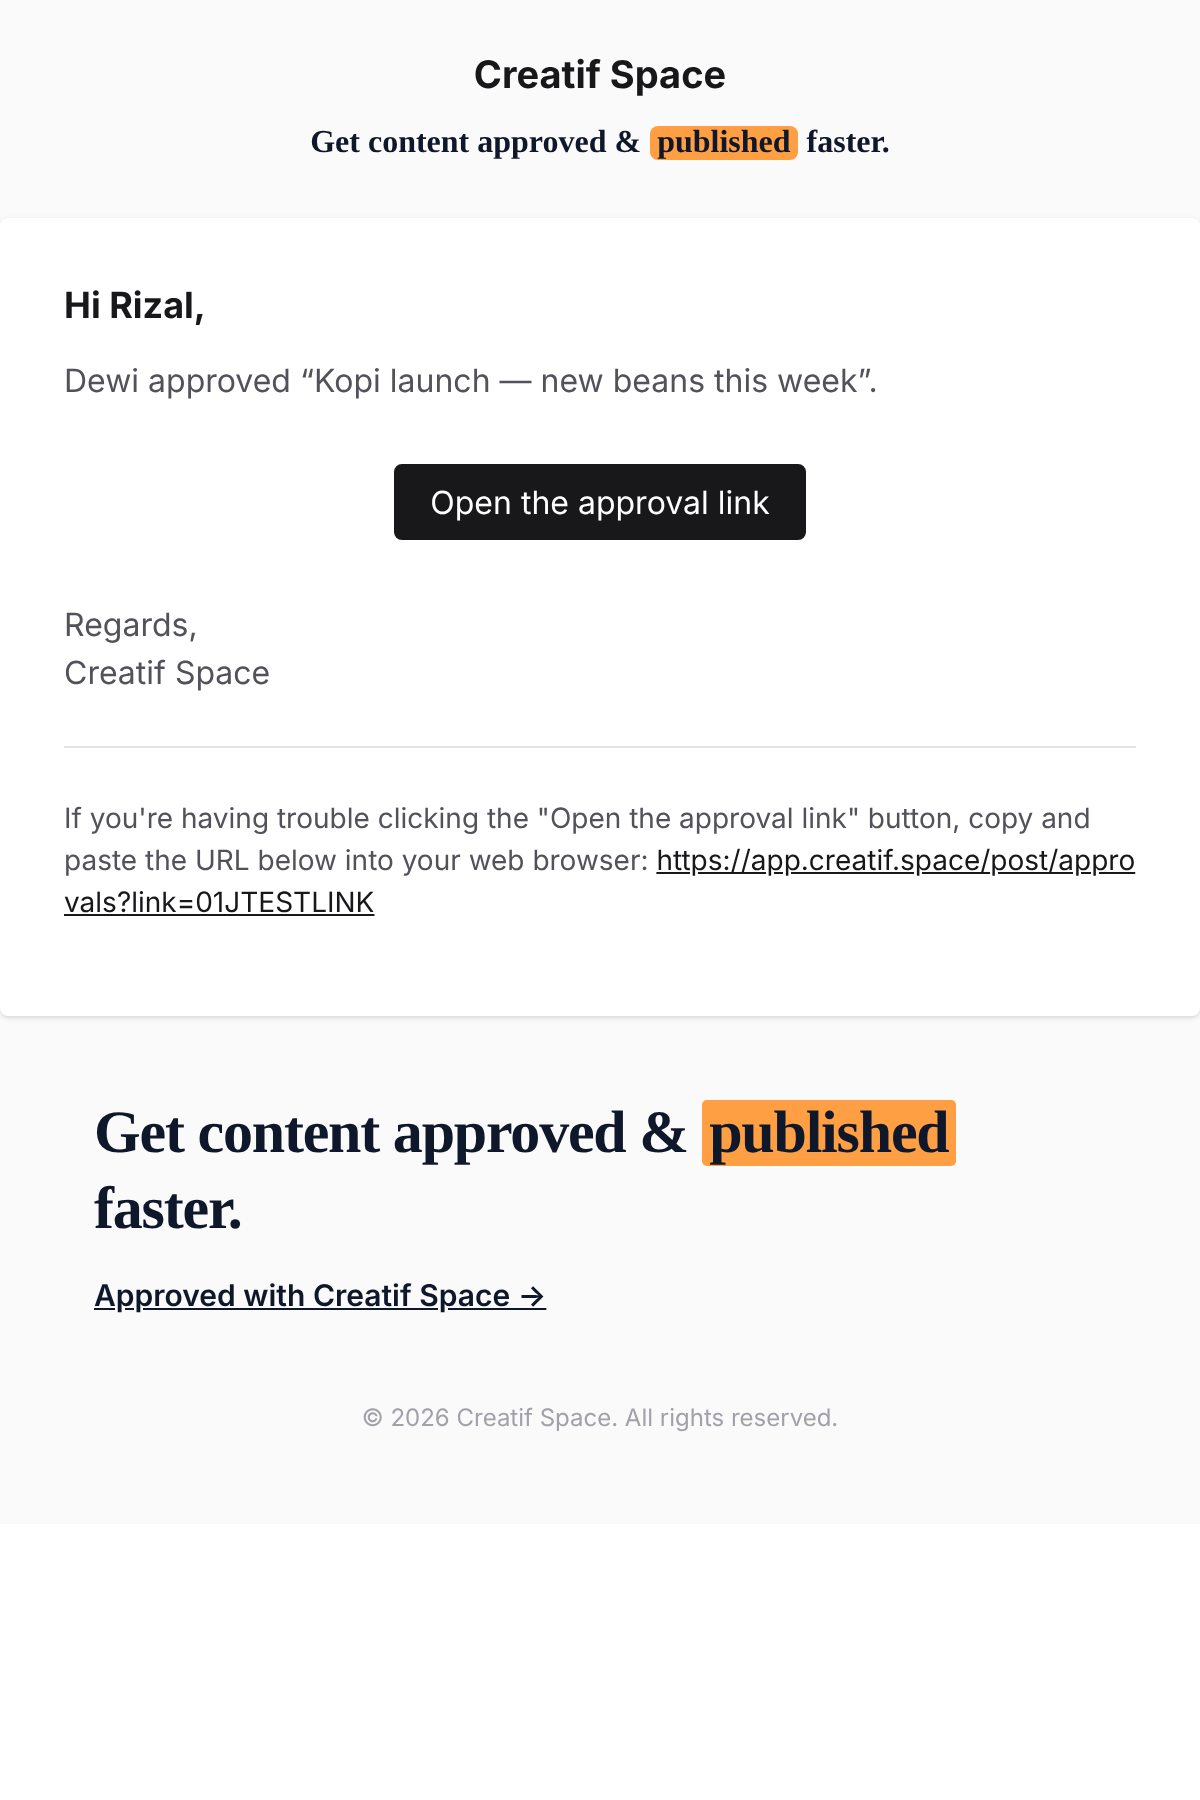
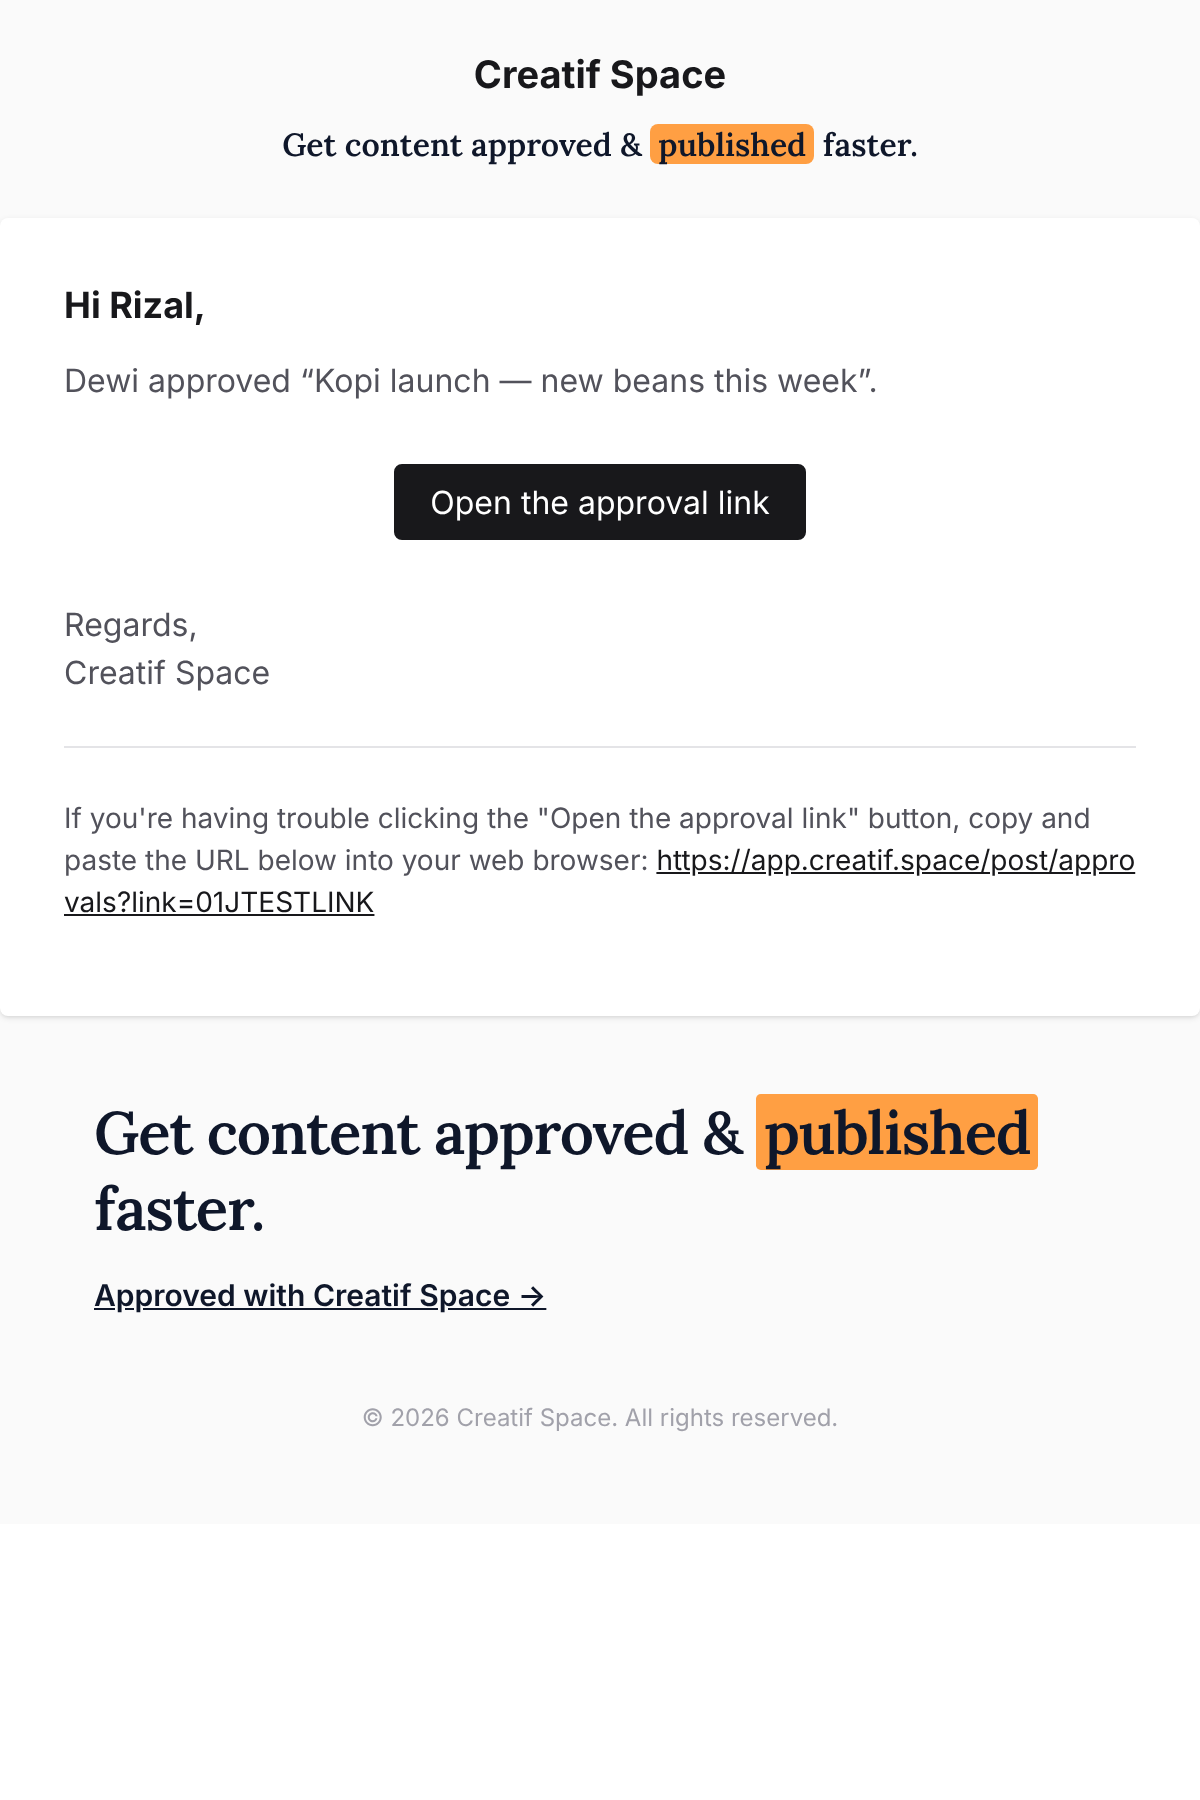
Approval footer slogan: Lora, Georgia, 'Times New Roman', serif at 600
Creative's nit on #81: the footer slogan rendered as Times bold in mail
clients. Gmail and Outlook drop web fonts, so Georgia now comes straight
after Lora (Times dropped from the stack); weight stays 600 on the line,
the "approved &" span and the "published" highlight. Header unchanged.
Test pins the new stack and the highlight's weight; 600px render re-taken
with Lora loaded.

Claude-Session: https://claude.ai/code/session_01NNFzpdx1LMzq81NKysJQkN

Changed region(s): [[0.0617, 0.5911, 0.8633, 0.6844], [0.2467, 0.0622, 0.74, 0.0933]]

diff --git a/tests/Feature/ApprovalMailFooterTest.php b/tests/Feature/ApprovalMailFooterTest.php
@@ -92,7 +92,7 @@ it('renders the two-line footer in every approval email, matching the snapshot',
         ->and($sloganLine)->toBe(APPROVAL_SLOGAN)
         ->and($url)->toBe(ApprovalMailFooter::URL);
 
-    // Line 1: live text (no image), 30px, Lora 600 with a web-safe stack ending in serif.
+    // Line 1: live text (no image), 30px, Lora 600, then Georgia (Gmail/Outlook drop web fonts), ending in serif.
     preg_match('/<div class="approval-slogan" style="([^"]*)">(.*?)<\/div>/s', $block, $slogan);
     preg_match_all('/font-family:\s*([^;]+);/', $slogan[1], $families);
     expect($block)->not->toContain('<img')
@@ -100,17 +100,18 @@ it('renders the two-line footer in every approval email, matching the snapshot',
         ->and($slogan[1])->toContain('font-weight: 600')
         ->and($slogan[1])->toContain('letter-spacing: -0.02em')
         ->and($slogan[1])->toContain('color: #0F172A')
-        ->and(trim((string) end($families[1])))->toBe("'Lora', Georgia, 'Times New Roman', Times, serif")
+        ->and(trim((string) end($families[1])))->toBe("Lora, Georgia, 'Times New Roman', serif")
         ->and($slogan[2])->toMatch('/approved(&nbsp;|&#160;|\x{00A0})&amp;/u');
 
     // "published" on orange with ink text, radius .08em, cloned across lines.
     preg_match('/<span style="([^"]*)">published<\/span>/', $slogan[2], $mark);
     preg_match_all('/font-family:\s*([^;]+);/', $mark[1], $markFamilies);
     expect($mark[1])->toContain('background-color: #FF9F43')
+        ->and($mark[1])->toContain('font-weight: 600')
         ->and($mark[1])->toContain('color: #0F172A')
         ->and($mark[1])->toContain('border-radius: 0.08em')
         ->and($mark[1])->toContain('box-decoration-break: clone')
-        ->and(trim((string) end($markFamilies[1])))->toBe("'Lora', Georgia, 'Times New Roman', Times, serif");
+        ->and(trim((string) end($markFamilies[1])))->toBe("Lora, Georgia, 'Times New Roman', serif");
 
     // Line 2: the link, with the UTM.
     preg_match('/<a class="approval-link" href="([^"]*)"[^>]*>(.*?)<\/a>/s', $block, $link);
